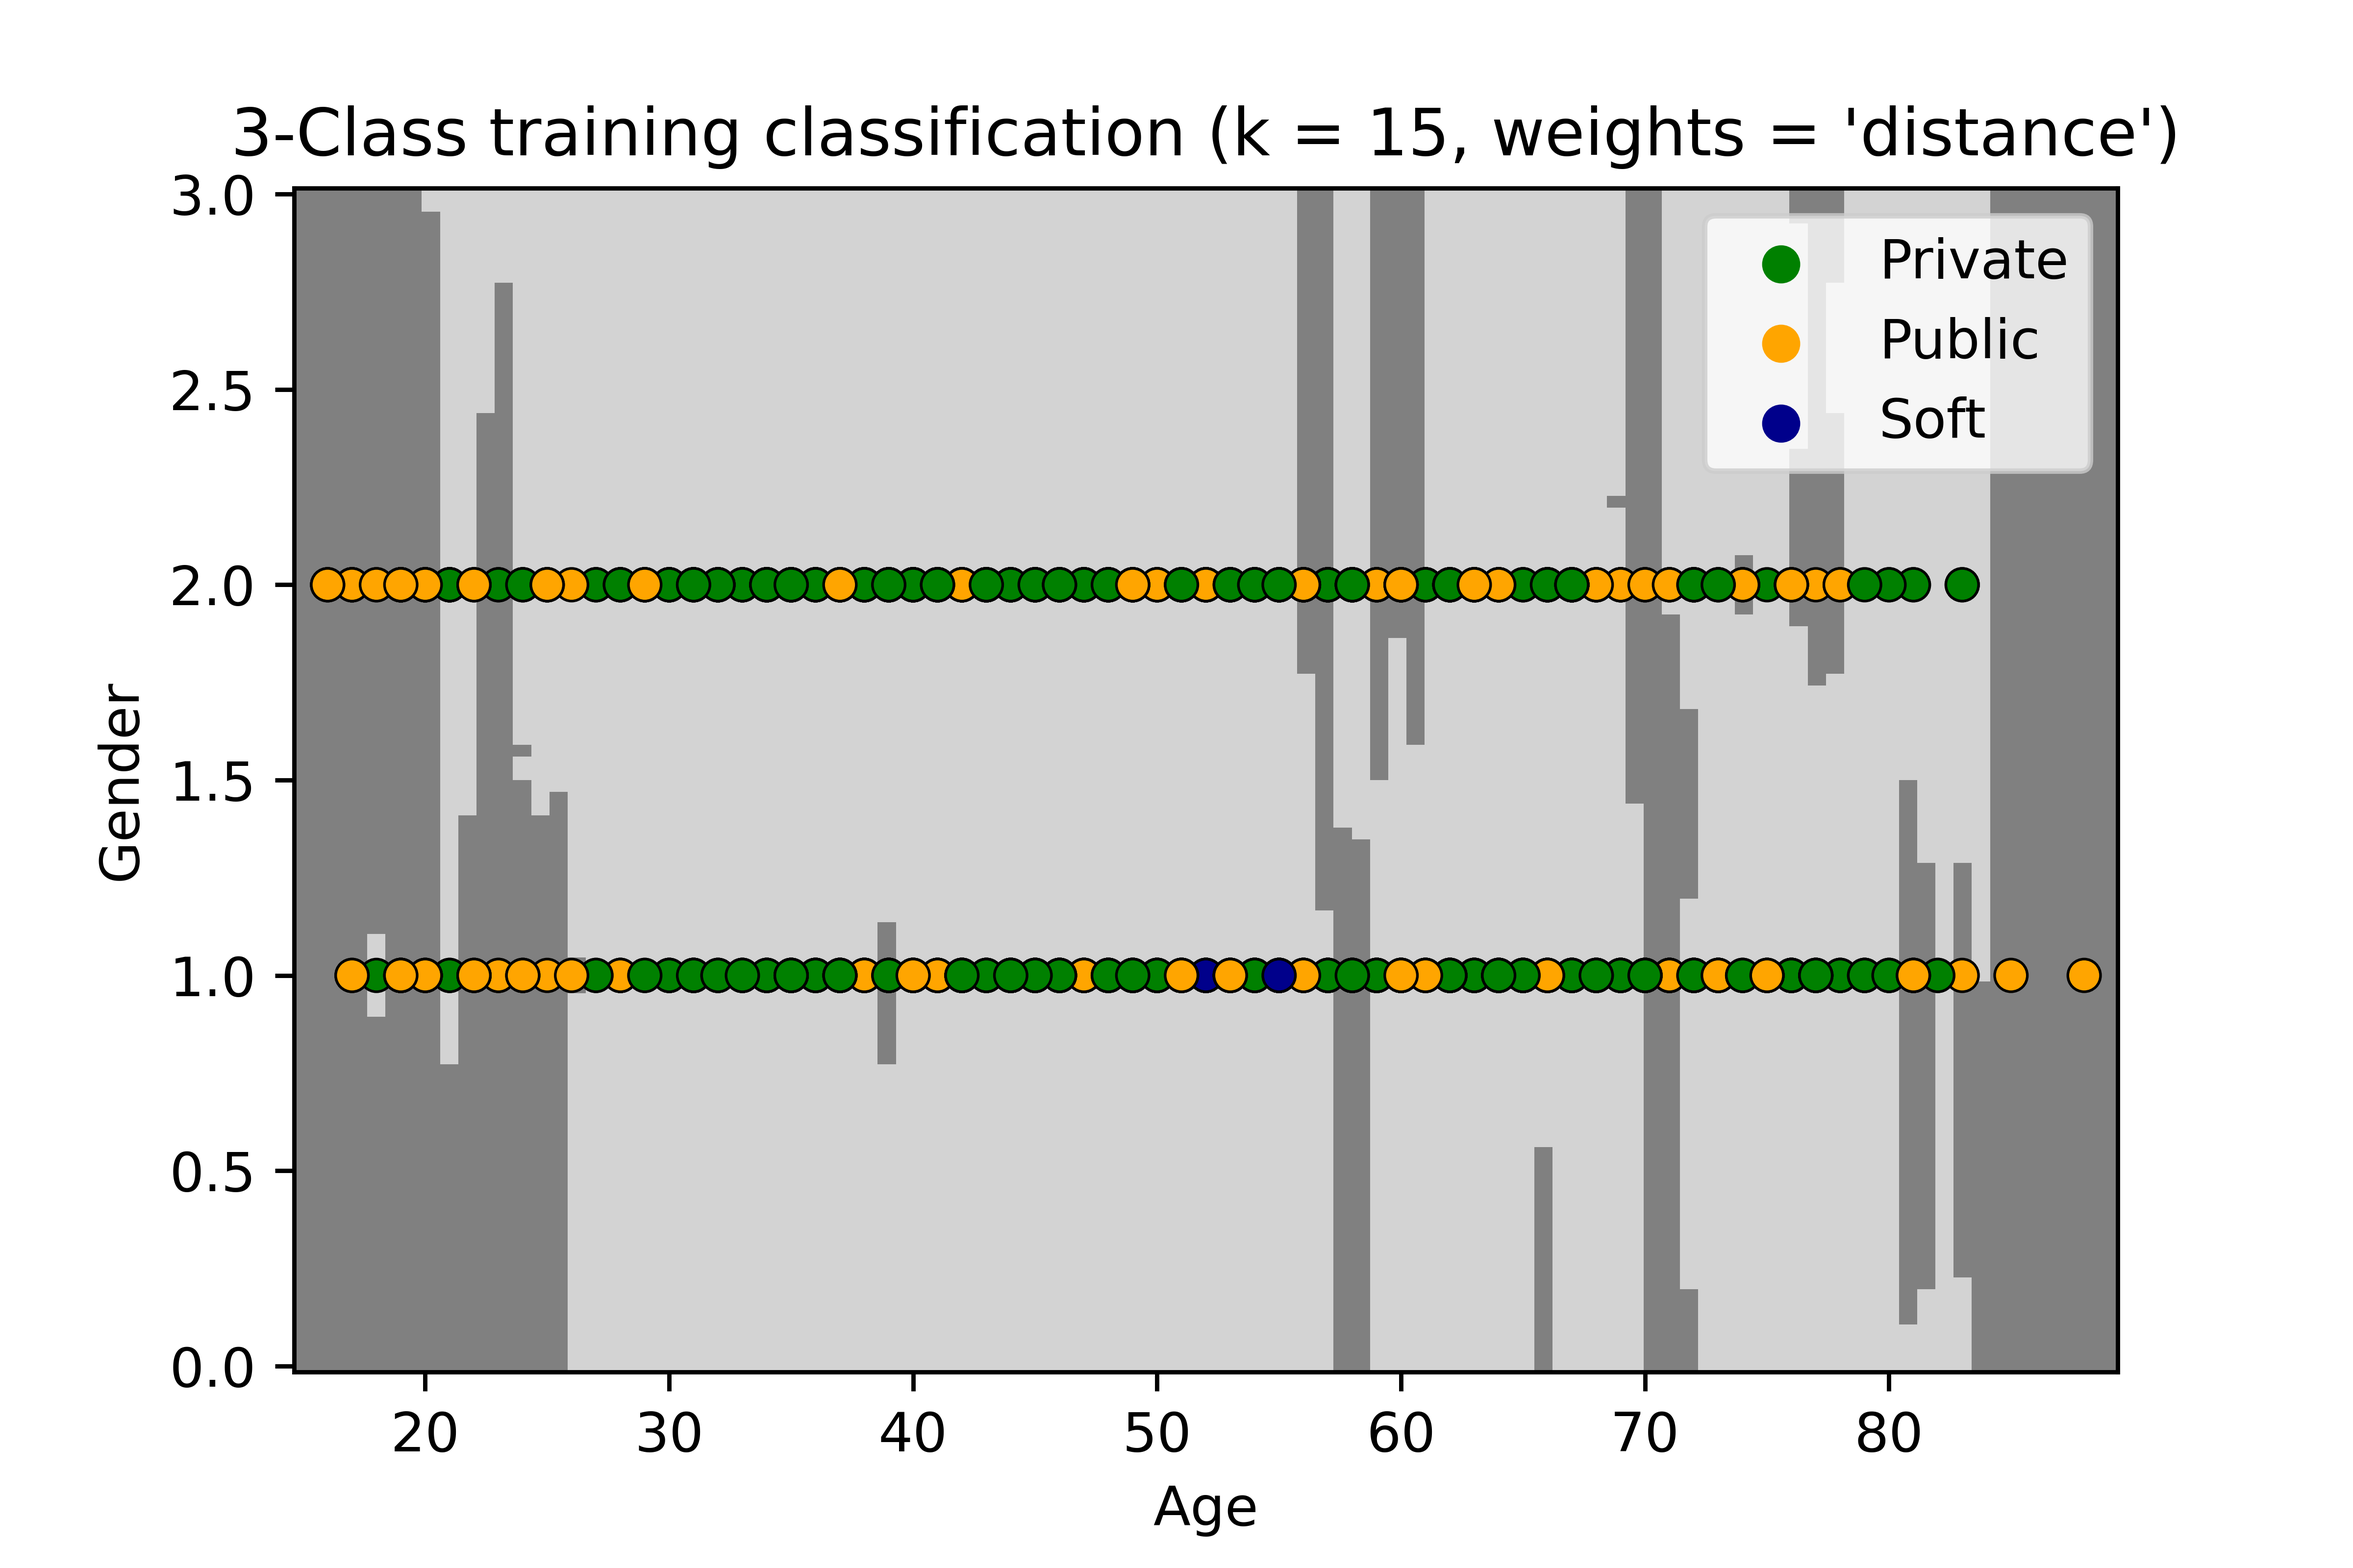
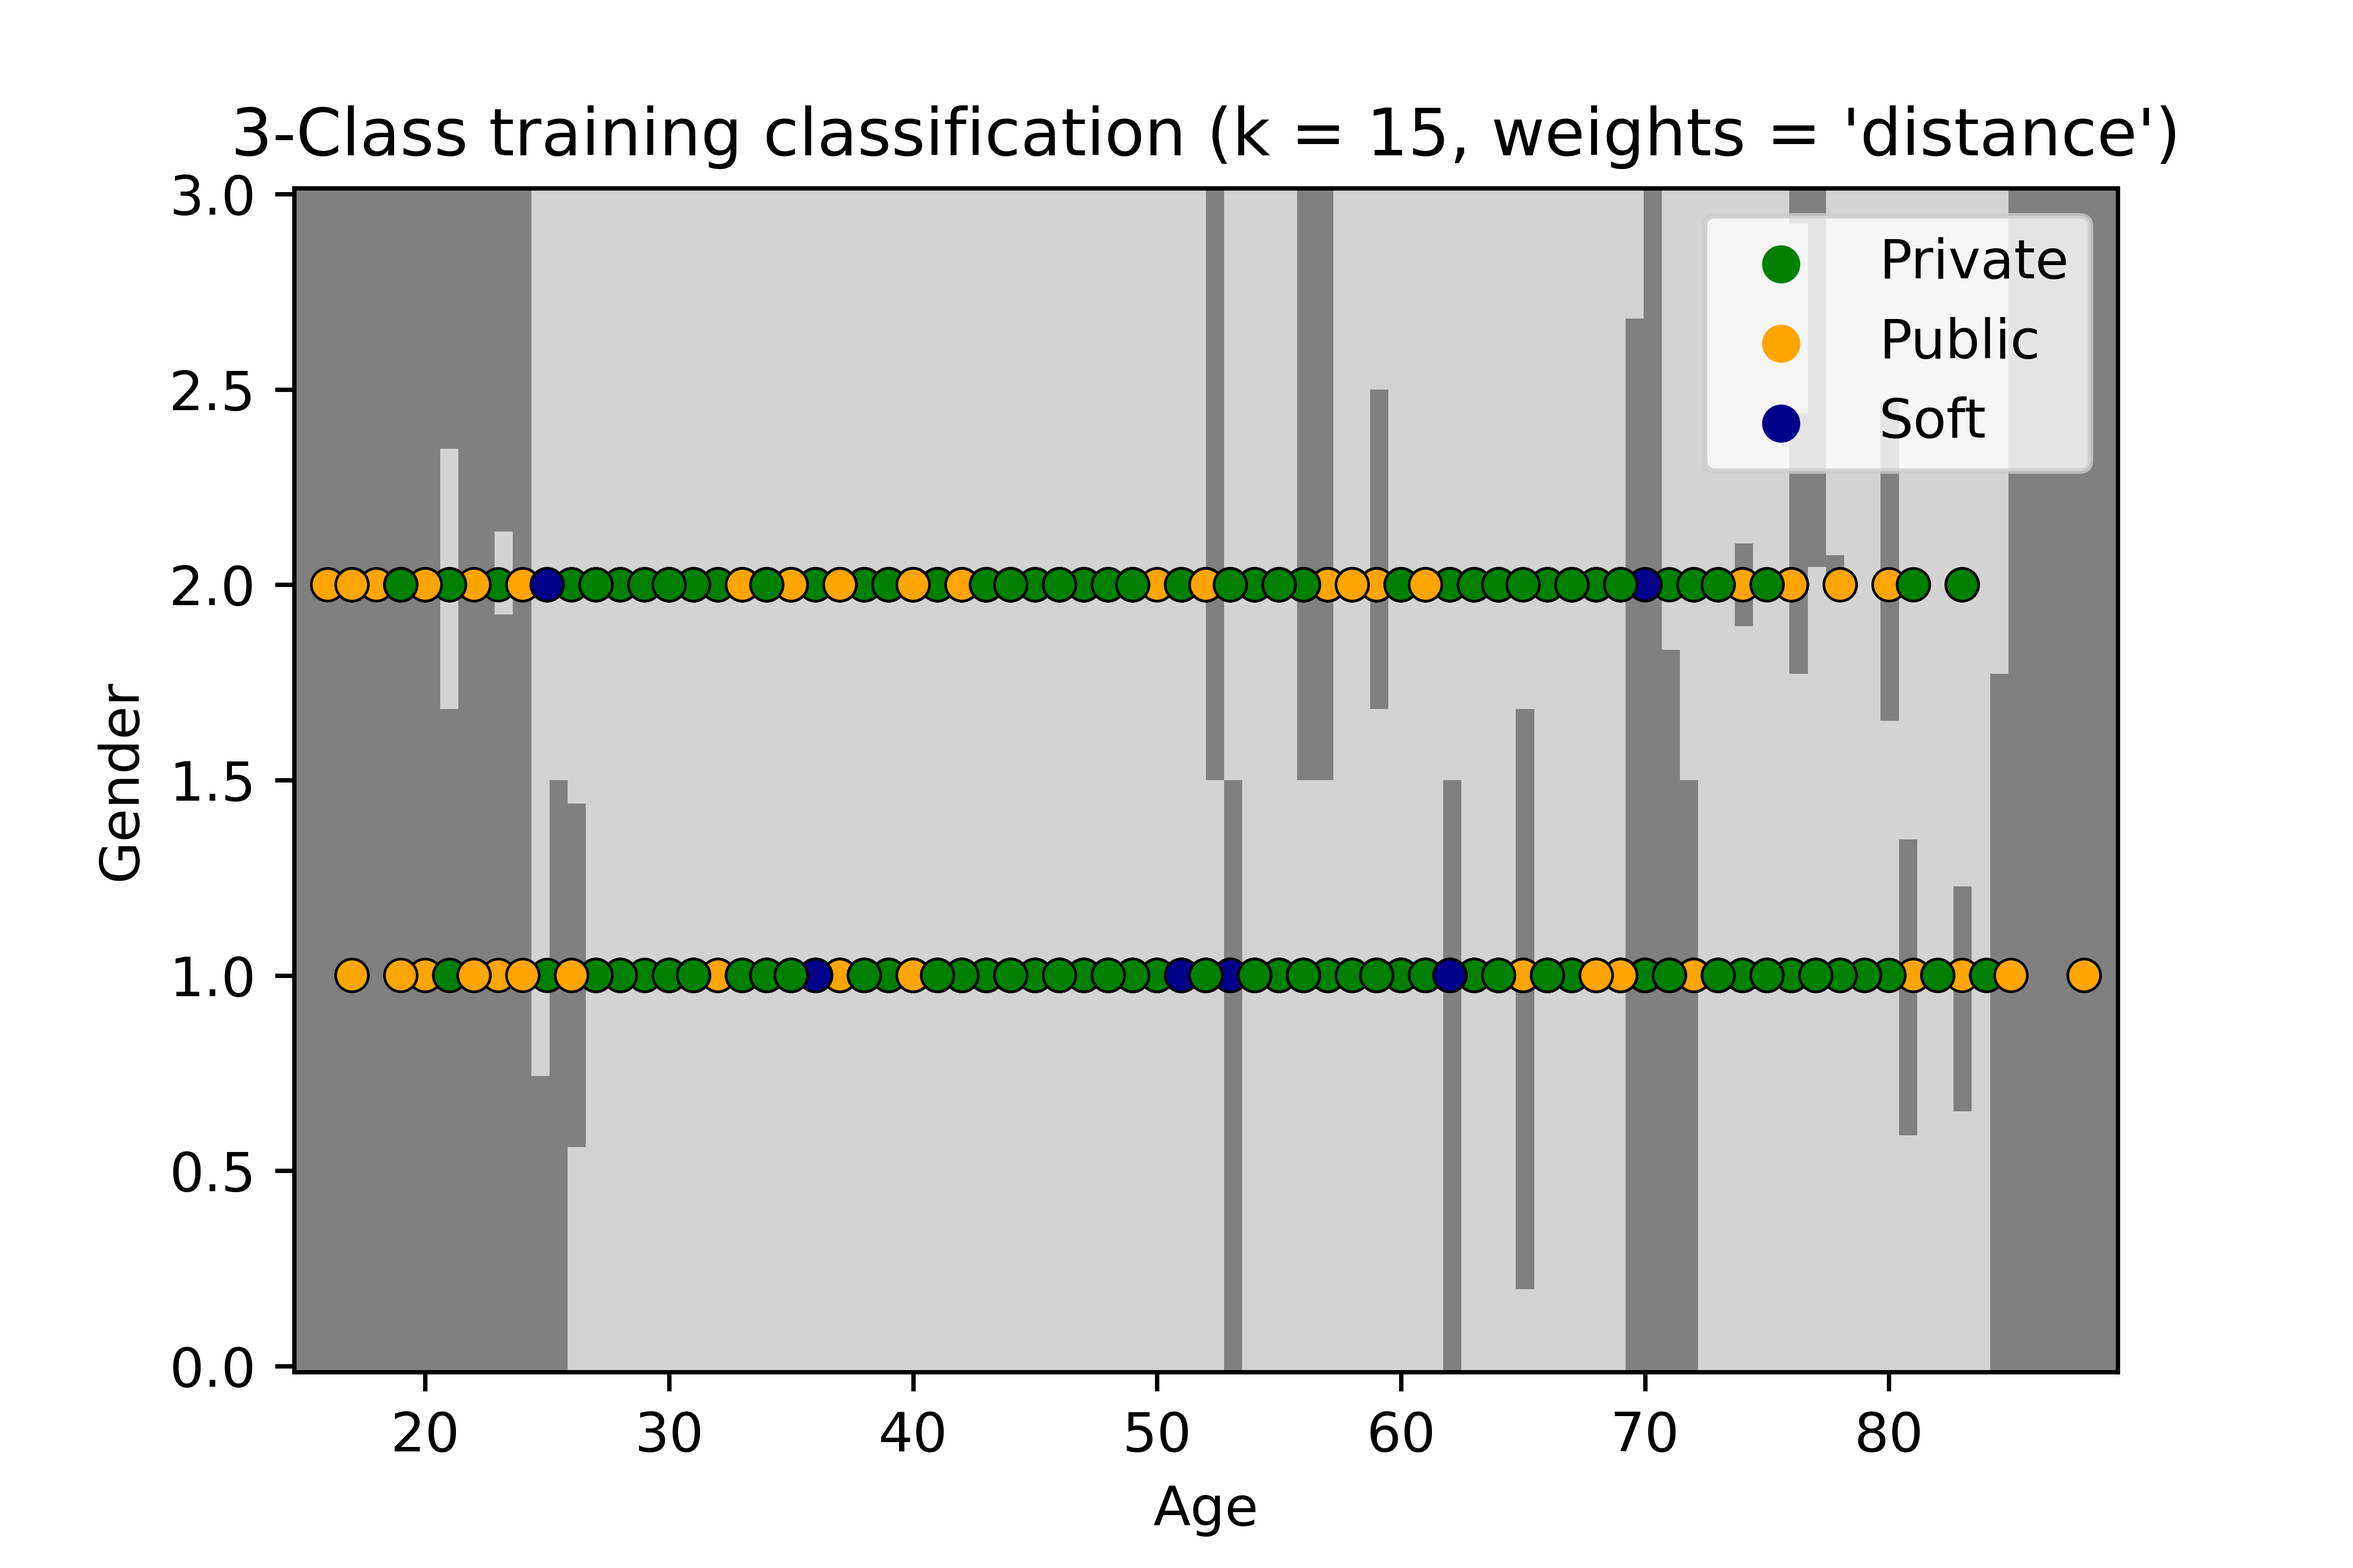
Data_prep_update

diff --git a/Subquestion_4.py b/Subquestion_4.py
@@ -8,24 +8,25 @@ from sklearn.model_selection import train_test_split
 import pandas as pd
 
 #Datasets
-import Subquestion_1
-import import_data
+import Data_Prep
 
 #Cleaning and creating final dataframe
-MOT_dict = Subquestion_1.result_dict
-MOT_df = pd.DataFrame.from_dict(MOT_dict, orient='index')
+# MOT_dict = Subquestion_1.result_dict
+# MOT_df = pd.DataFrame.from_dict(MOT_dict, orient='index')
 
-df_age_gender = import_data.df[['ID','age', 'Gender']]
+# df_age_gender = import_data.df[['ID','age', 'Gender']]
 
-df_4 = pd.merge(MOT_df, df_age_gender, left_index=True, right_on="ID")
-df_4.loc[df_4['PM'] == 0,'Label'] = 'Public'
-df_4.loc[df_4['PM'] == 1,'Label'] = 'Private'
-df_4.loc[df_4['PM'] == 2,'Label'] = 'Soft'
+# df_4 = pd.merge(MOT_df, df_age_gender, left_index=True, right_on="ID")
+# df_4.loc[df_4['PM'] == 0,'Label'] = 'Public'
+# df_4.loc[df_4['PM'] == 1,'Label'] = 'Private'
+# df_4.loc[df_4['PM'] == 2,'Label'] = 'Soft'
 
-df_4.drop(df_4[df_4['Gender'] == -1].index, inplace = True)
-df_4.drop(df_4[df_4['age'] == -1].index, inplace = True)
-df_4.drop(df_4[df_4['PM'] < 0].index, inplace = True)
+# df_4.drop(df_4[df_4['Gender'] == -1].index, inplace = True)
+# df_4.drop(df_4[df_4['age'] == -1].index, inplace = True)
+# df_4.drop(df_4[df_4['PM'] < 0].index, inplace = True)
 
+
+df_train = Data_Prep.df_final
 
 #Multi-Clustering Code
 
@@ -35,8 +36,7 @@ n_neighbors = 15
 #X_train,X_test,Y_train,Y_test = train_test_split(X,y,test_size=0.3,random_state = 1)
 
 #splitting dataset into train, validation and test data
-df_train,df_test = train_test_split(df_4,test_size=0.3,random_state = 1)
-
+df_train,df_test = train_test_split(df_train,test_size=0.3,random_state = 1)
 
 # # we only take the first two features. We could avoid this ugly
 # # slicing by using a two-dim dataset

diff --git a/Data_Prep.py b/Data_Prep.py
@@ -175,9 +175,14 @@ MOT_df.loc[MOT_df['PM'] == 0,'Label'] = 'Public'
 MOT_df.loc[MOT_df['PM'] == 1,'Label'] = 'Private'
 MOT_df.loc[MOT_df['PM'] == 2,'Label'] = 'Soft'
 
-df_income = import_data.df[['ID','Income']]
-df_final = pd.merge(MOT_df, df_income, left_index=True, right_on="ID")
+
+df_extra= import_data.df[['ID', 'age', 'Gender','Income']]
+df_final = pd.merge(MOT_df, df_extra, left_index=True, right_on="ID")
 df_final.drop(df_final[df_final['Income'] == -1].index, inplace = True)
+df_final.drop(df_final[df_final['Gender'] == -1].index, inplace = True)
+df_final.drop(df_final[df_final['age'] == -1].index, inplace = True)
+df_final.drop(df_final[df_final['PM'] < 0].index, inplace = True)
+
 
 
 
